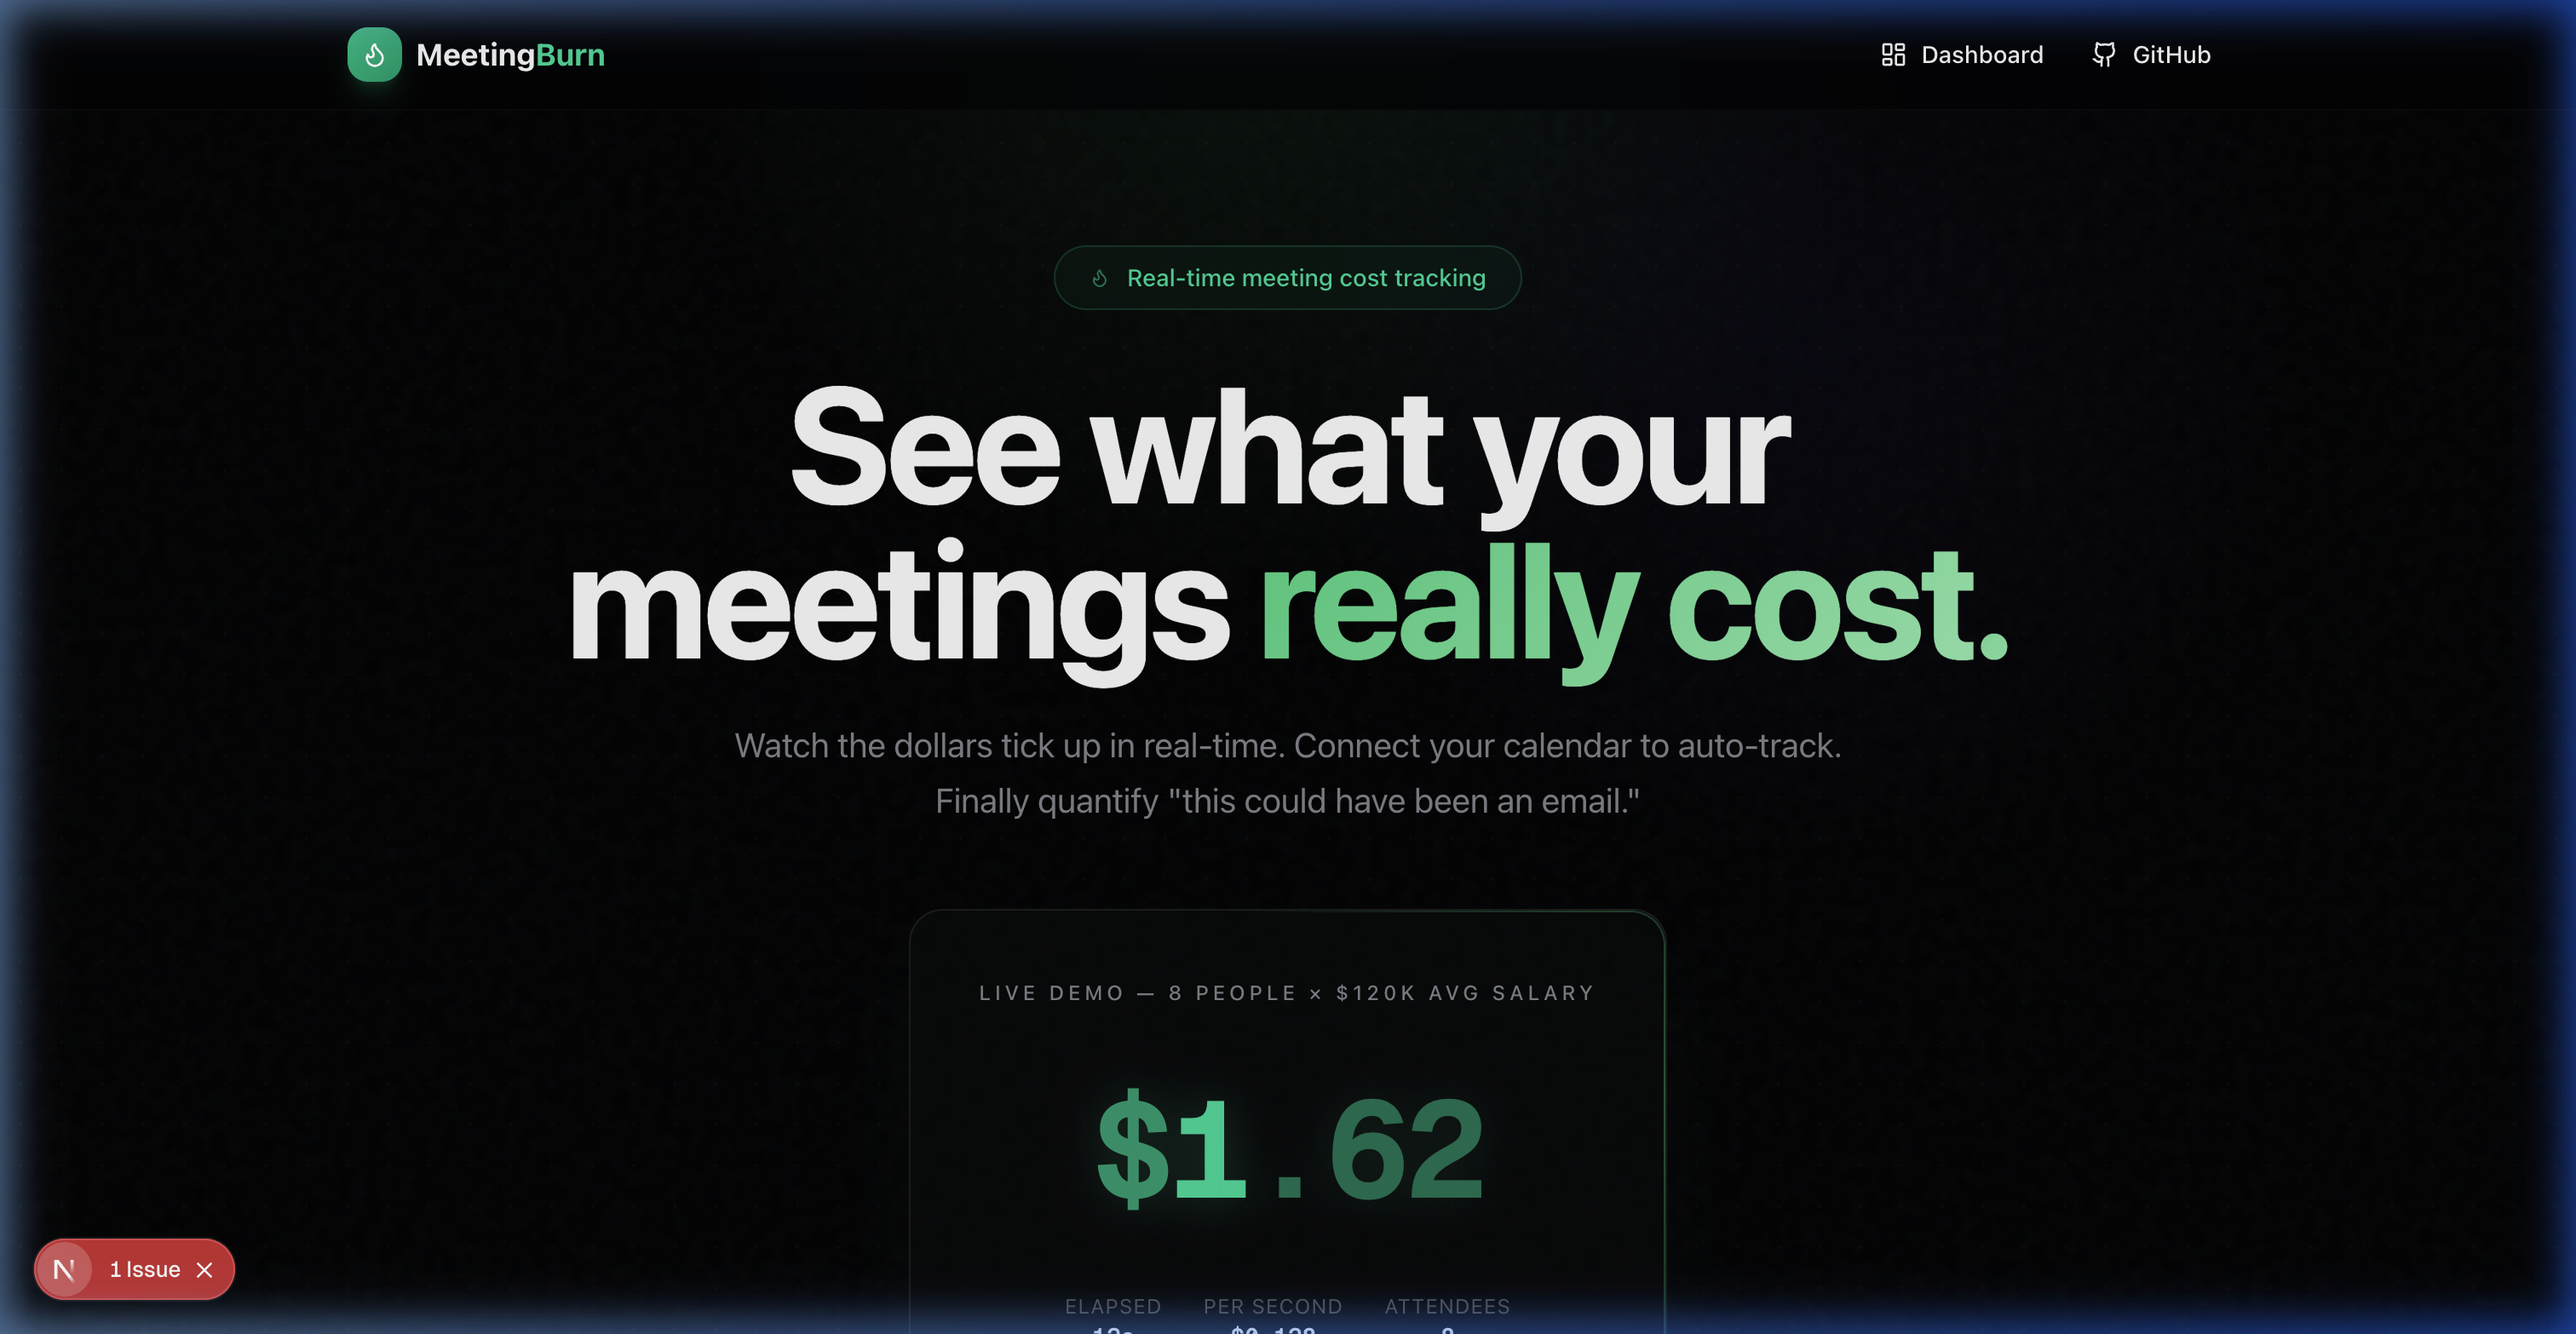
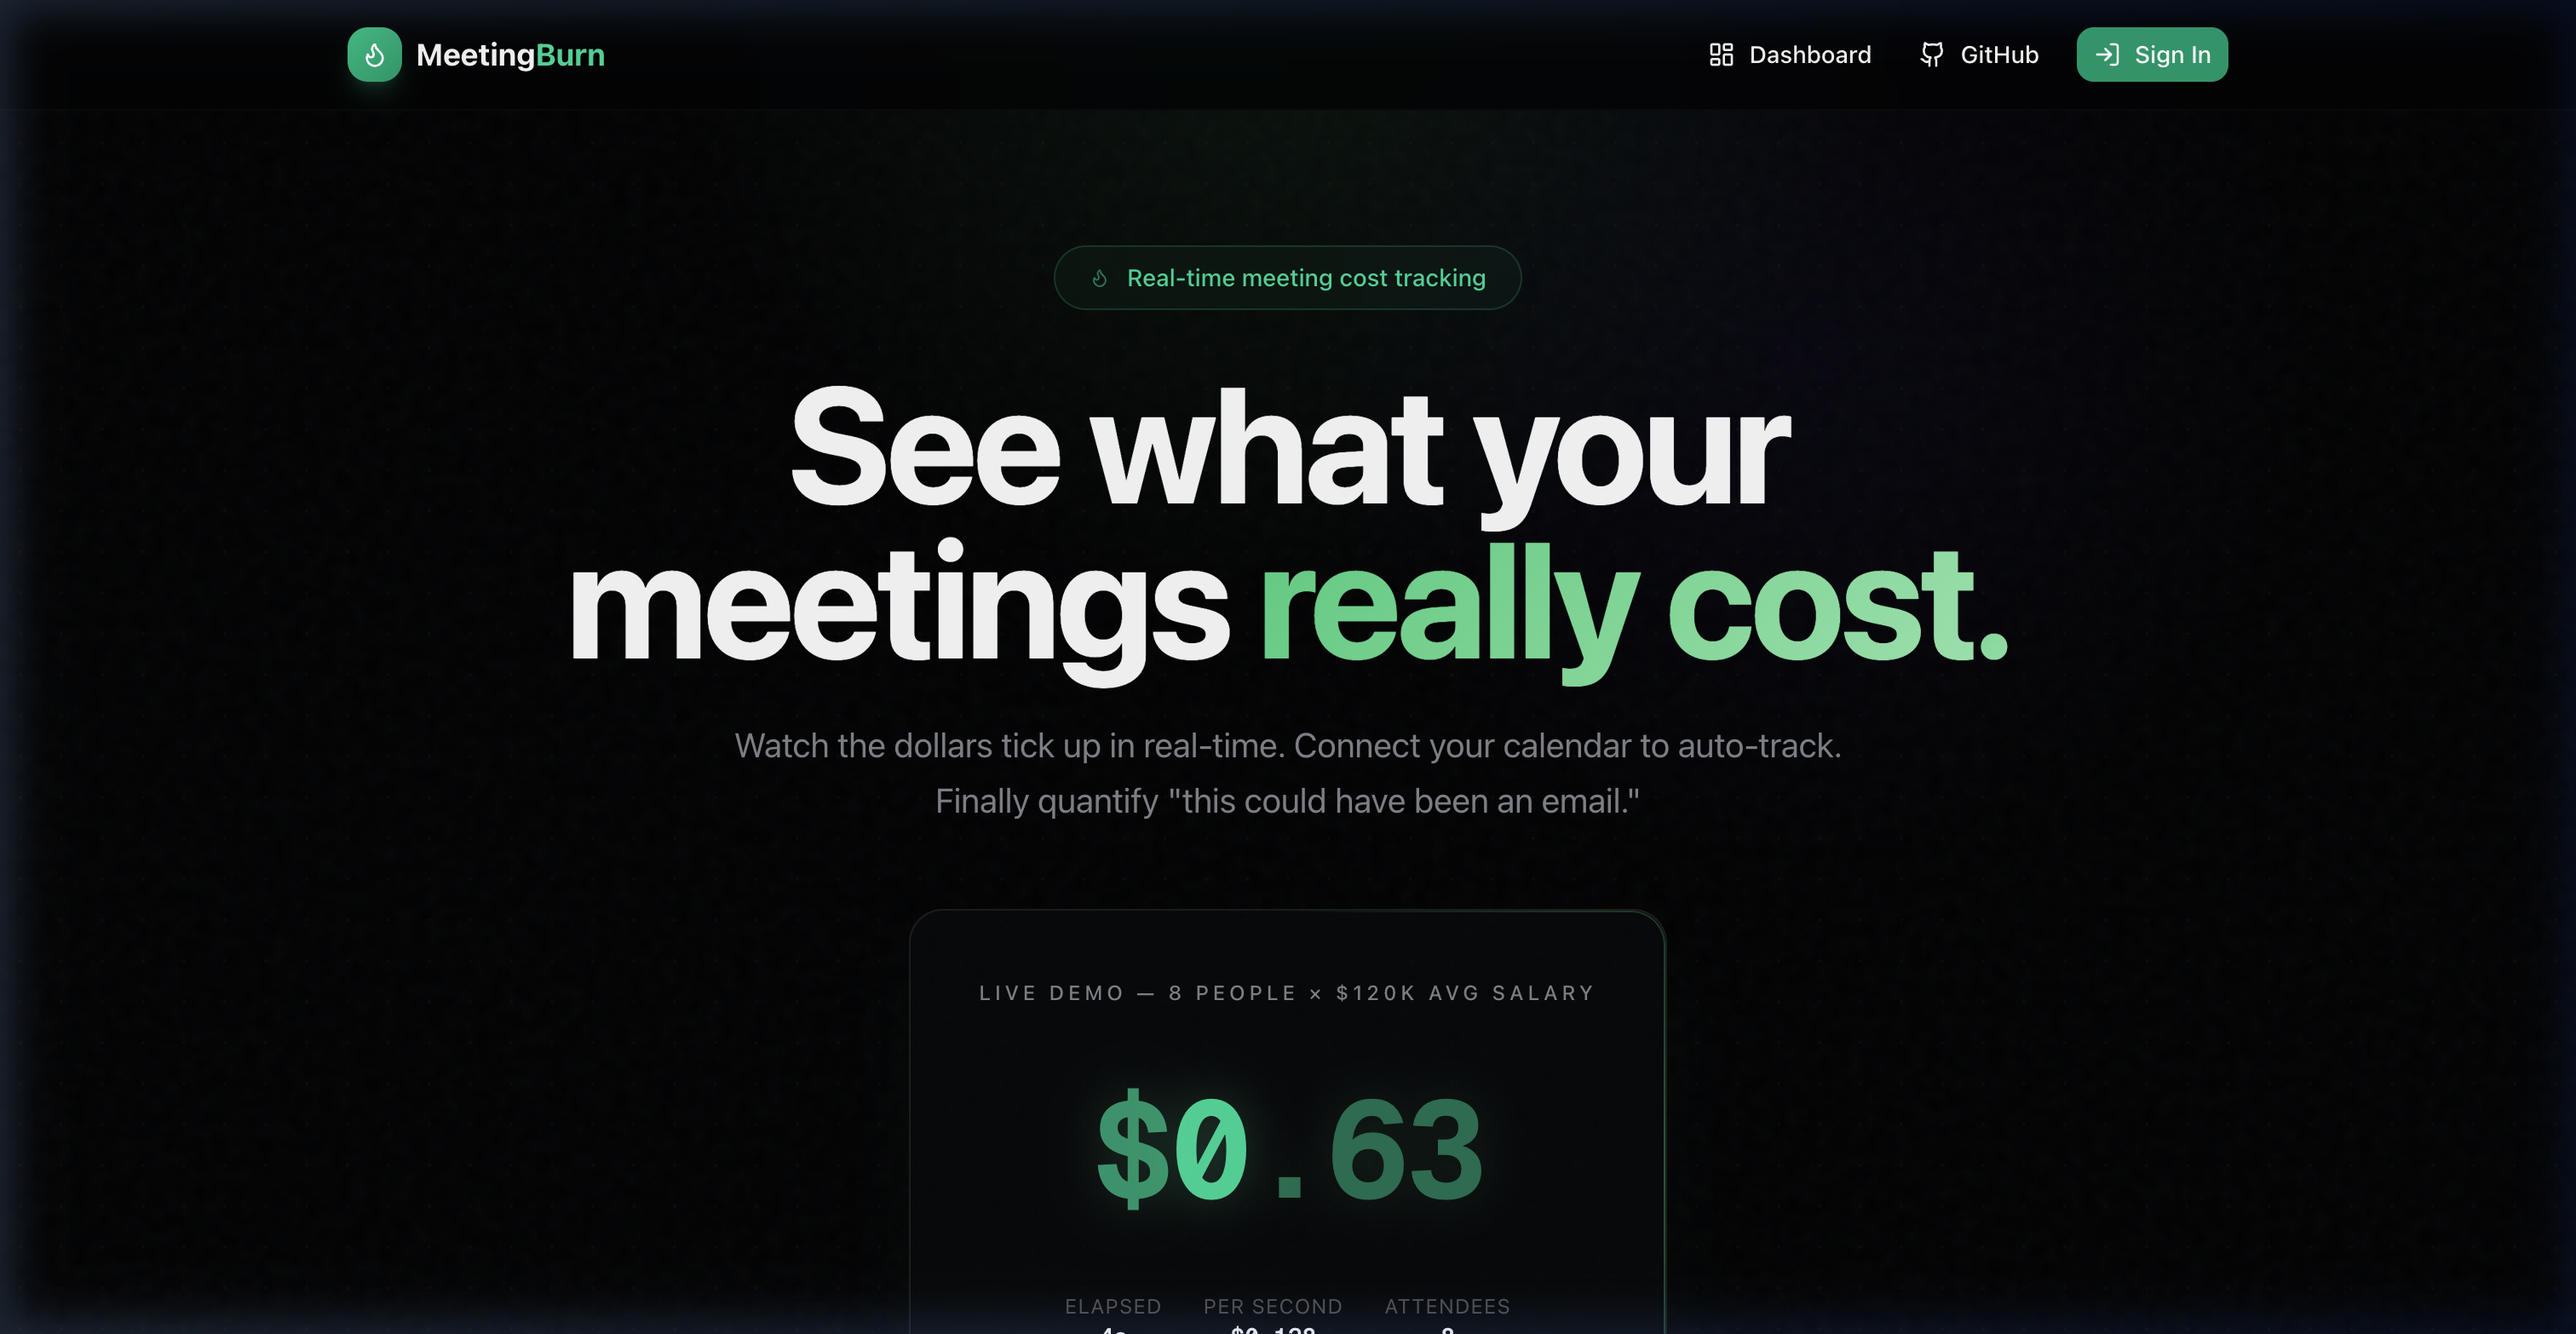
📸 Fresh production screenshot + Vercel link in README
- Clean screenshot from production (no dev badges)
- Shows Sign In button in navbar
- Added explicit Vercel deployment URL in README

Changed region(s): [[0.0, 0.0, 1.0, 1.0], [0.4352, 0.8276, 0.4974, 0.8889], [0.5284, 0.8276, 0.5906, 0.8889]]

diff --git a/README.md b/README.md
@@ -7,6 +7,8 @@
 
 > Built for the **48-Hour Vibe Coding Challenge** by **Team KashMoney**
 
+🌐 **Live Demo:** [https://meetingburn-tau.vercel.app](https://meetingburn-tau.vercel.app)
+
 ---
 
 ## What is MeetingBurn?
